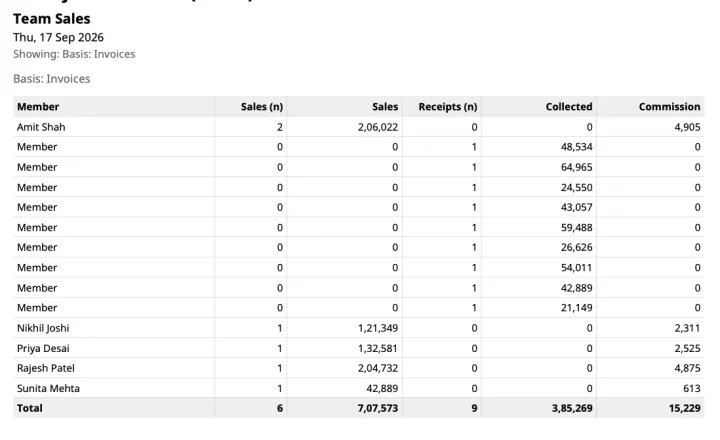
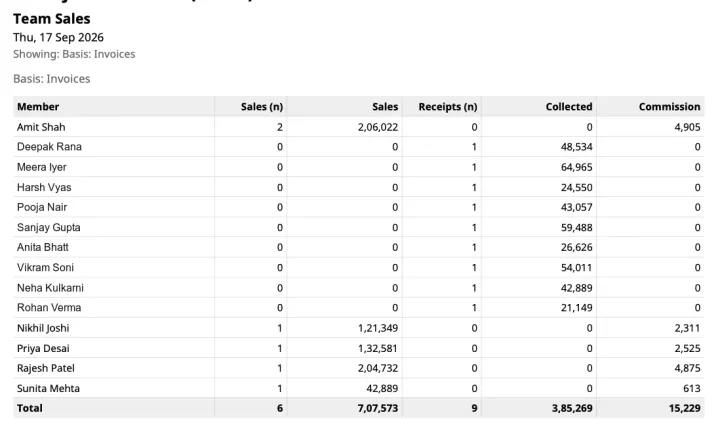
feat(feature-pages): the salesman page shows the exported Team Sales sheet, with names on every row
Ronak (15:10): the Team Sales page should carry the export of salesman-wise
sales, invoices and collections. A page may now carry a `sheet` block
(registry slug + copy), rendered whole after the tour: the sheet is the
subject here, not the homepage's tucked prop. Pinned in feature-page.test.jsx;
the image joins the provenance and image sweeps as featurePage:sheet.

Ronak (15:25): the nine rows the demo data printed as "Member" (receipts
under ids with no user row; the data fix is supabase-functions PR #802) carry
placeholder names on the mockup, drawn over the row in Arial 16px. Source
"salesman wise summary report names.png" beside the original in the
git-ignored mockups/, re-exported through exportScreens, provenance re-keyed.
scripts/shoot.mjs gains a `sheet` set. Verified by eye at 1440 and 390.

Changed region(s): [[0.0, 0.325, 0.1222, 0.7091]]

diff --git a/src/components/FeaturePage.jsx b/src/components/FeaturePage.jsx
@@ -43,6 +43,7 @@ import {
   SITE_URL,
 } from '../data/schema';
 import { featurePagePath, heroShot, stepShot } from '../data/featurePages';
+import { screen } from '../data/screens';
 
 // The feature-landing-page template. One entry in src/data/featurePages.js is
 // one page; this renders it. Built as a second template beside ICPTemplate
@@ -254,6 +255,34 @@ function FeaturePage({ page }) {
       {/* ── Scroll-driven order tour, only on pages whose data carries one.
           Motion reasons live in FeatureTour.jsx's header. ── */}
       {page.tour && <FeatureTour tour={page.tour} />}
+
+      {/* ── An exported sheet, only on pages whose data carries one: the
+          Team Sales export first (2026-09-20). Shown whole, not tucked and
+          rotated like the homepage's PaperSheet, because here it is the
+          subject, not a prop. ── */}
+      {page.sheet && (
+        <section className="tally-section feature-sheet" id="sheet">
+          <div className="container">
+            <div className="section-header">
+              <span className="section-label">{page.sheet.overline}</span>
+              <h2 className="section-title">{page.sheet.heading}</h2>
+              <p className="feature-sheet-intro">{page.sheet.body}</p>
+            </div>
+            <figure className="feature-sheet-paper">
+              <img
+                src={screen(page.sheet.screen).src}
+                srcSet={screen(page.sheet.screen).srcSet}
+                sizes="(max-width: 767px) calc(100vw - 32px), 760px"
+                alt={screen(page.sheet.screen).alt}
+                width={screen(page.sheet.screen).width}
+                height={screen(page.sheet.screen).height}
+                loading="lazy"
+                decoding="async"
+              />
+            </figure>
+          </div>
+        </section>
+      )}
 
       {/* ── In detail. Only on pages whose data carries a `detail` block: a
           feature with a lot of behaviour worth naming (document import first,

diff --git a/src/routes/__tests__/feature-page.test.jsx b/src/routes/__tests__/feature-page.test.jsx
@@ -11,6 +11,7 @@ vi.mock('vite-react-ssg', () => ({
 
 import FeaturePage from '../../components/FeaturePage';
 import { FEATURE_PAGES, featurePagePath, heroShot, stepShot } from '../../data/featurePages';
+import { screen } from '../../data/screens';
 import { routeMetadata } from '../../data/siteMetadata';
 import { routes } from '../index';
 import { pricing, planPricing } from '../../data/siteContent';
@@ -356,6 +357,29 @@ describe('the navy hero stays on the two heroes it is for', () => {
       '.feature-hero p',
       '.features-hub-hero .container p',
     ]);
+  });
+});
+
+describe('exported sheet section', () => {
+  it.each(FEATURE_PAGES.filter((p) => p.sheet).map((p) => [p.slug, p]))(
+    '%s: shows the whole registered sheet with its dimensions',
+    (_slug, page) => {
+      const { container } = renderPage(page);
+      const section = container.querySelector('#sheet');
+      expect(section).not.toBeNull();
+      const shot = screen(page.sheet.screen);
+      const img = section.querySelector('.feature-sheet-paper img');
+      expect(img.getAttribute('src')).toBe(shot.src);
+      expect(img.getAttribute('srcset')).toBe(shot.srcSet ?? null);
+      expect(img.getAttribute('width')).toBe(String(shot.width));
+      expect(img.getAttribute('height')).toBe(String(shot.height));
+      expect(section.querySelector('h2').textContent).toBe(page.sheet.heading);
+    },
+  );
+  it('the salesman page carries the Team Sales export; a page without sheet data renders none', () => {
+    expect(FEATURE_PAGES.find((p) => p.slug === 'salesman-app-tally').sheet.screen).toBe('sheet-salesman');
+    const page = FEATURE_PAGES.find((p) => !p.sheet);
+    expect(renderPage(page).container.querySelector('#sheet')).toBeNull();
   });
 });
 

diff --git a/src/data/featurePages.js b/src/data/featurePages.js
@@ -174,6 +174,16 @@ const FIRST_BATCH = [
       footnote:
         'View and create rights are set per register, per person. You can restrict which ledgers and which stock groups a salesman sees, so the field team works without your whole book being open to them.',
     },
+    // The exported Team Sales sheet (Ronak, 2026-09-20 15:10): the one page
+    // an owner actually forwards. Registry slug, same file the homepage's
+    // Tally stop enlarges; capture #8 of plan 2026-09-20-001 replaces it once
+    // the demo receipts carry names.
+    sheet: {
+      screen: 'sheet-salesman',
+      overline: 'THE SHEET',
+      heading: 'Salesman-wise sales, invoices and collections, exported',
+      body: 'Team Sales exports one sheet for any period: each member with the invoices raised, the sales they add up to, the receipts logged, the amount collected and the commission earned. Send it to the accountant or open it in Excel, and the month-end argument starts from one number.',
+    },
     comparison: {
       heading: 'What changes once the order leaves the shop',
       othersLabel: 'Other Tally mobile apps',

diff --git a/src/feature-page.css b/src/feature-page.css
@@ -133,6 +133,35 @@
   color: var(--color-text-secondary);
 }
 
+/* ── The sheet ──
+ * One exported sheet shown whole, paper on the wash: white, a hairline and a
+ * soft drop, no rotation (that is the homepage's tucked prop; here the sheet
+ * is the subject). Width follows the container up to the export's own 720w. */
+.feature-sheet-intro {
+  max-width: 640px;
+  margin: 14px auto 0;
+  font-size: 17px;
+  line-height: 1.6;
+  color: var(--color-text-secondary);
+  text-align: center;
+}
+
+.feature-sheet-paper {
+  max-width: 760px;
+  margin: 40px auto 0;
+  padding: 12px;
+  background: var(--color-white);
+  border: 1px solid rgba(10, 23, 48, 0.08);
+  border-radius: var(--radius-lg);
+  box-shadow: 0 24px 50px rgba(10, 23, 48, 0.14);
+}
+
+.feature-sheet-paper img {
+  display: block;
+  width: 100%;
+  height: auto;
+}
+
 /* ── In detail ──
  * A grid of topic cards, each a short list. Same card vocabulary as the hub
  * (.tally-card), wider tracks because a list needs the room a blurb does not. */

diff --git a/src/data/__tests__/feature-pages.test.js b/src/data/__tests__/feature-pages.test.js
@@ -166,6 +166,7 @@ describe('feature page data contract', () => {
     heroShot(page).src,
     ...(page.walkthrough?.map((s) => stepShot(s).src) ?? []),
     ...(page.tour?.stations?.map((s) => stepShot(s).src) ?? []),
+    ...(page.sheet ? [screen(page.sheet.screen).src] : []),
   ];
 
   it.each(FEATURE_PAGES.filter((p) => p.tour).map((p) => [p.slug, p]))(
@@ -313,6 +314,9 @@ describe('feature page data contract', () => {
       surface: 'featurePage:tour',
       origin: `${page.slug} tour station "${station.title}"`,
     })),
+    ...(page.sheet
+      ? [{ path: screen(page.sheet.screen).src, surface: 'featurePage:sheet', origin: `${page.slug} sheet` }]
+      : []),
   ];
   const provenanceErrors = (references) =>
     checkReferences({ references, manifest: provenance, readBytes: readImageBytes }).errors;
